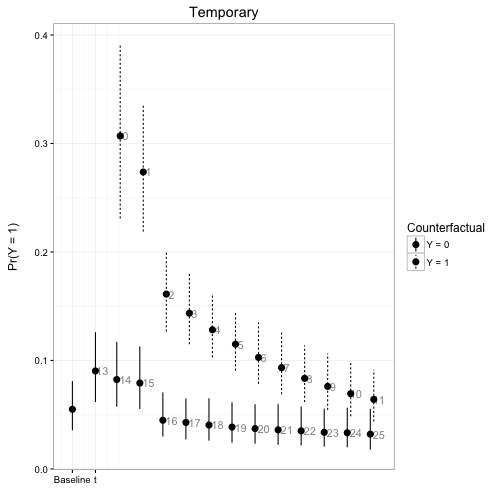
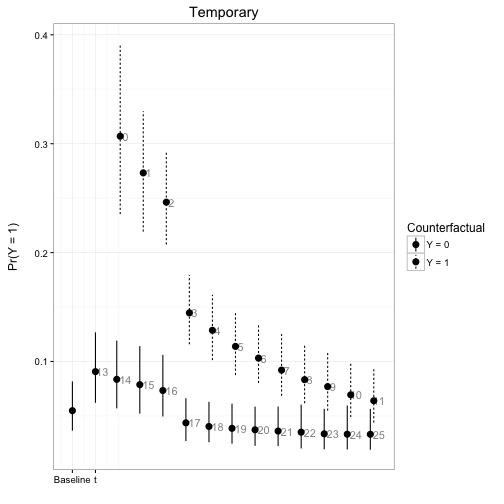
multiple events example in readme

diff --git a/README.md b/README.md
@@ -54,10 +54,20 @@ plte_plot(sim2) + ggtitle('One-time')
 
 ```r
 # Temporary
-sim3 <- plte_builder(obj = m1, obj_tvar = 't', cf_duration = 3,
+sim3 <- plte_builder(obj = m1, obj_tvar = 't', cf_duration = 4,
                      cf = counterfactual, t_points = c(13, 25))
 
 plte_plot(sim3) + ggtitle('Temporary')
 ```
 
 ![plot of chunk unnamed-chunk-1](figure/unnamed-chunk-1-3.png)
+
+```r
+# Multiple events, permanent counter factual
+sim4 <- plte_builder(obj = m1, obj_tvar = 't',
+                     cf = counterfactual, t_points = c(13, 20, 25))
+
+plte_plot(sim4) + ggtitle('Permanent, Multiple Events')
+```
+
+![plot of chunk unnamed-chunk-1](figure/unnamed-chunk-1-4.png)
